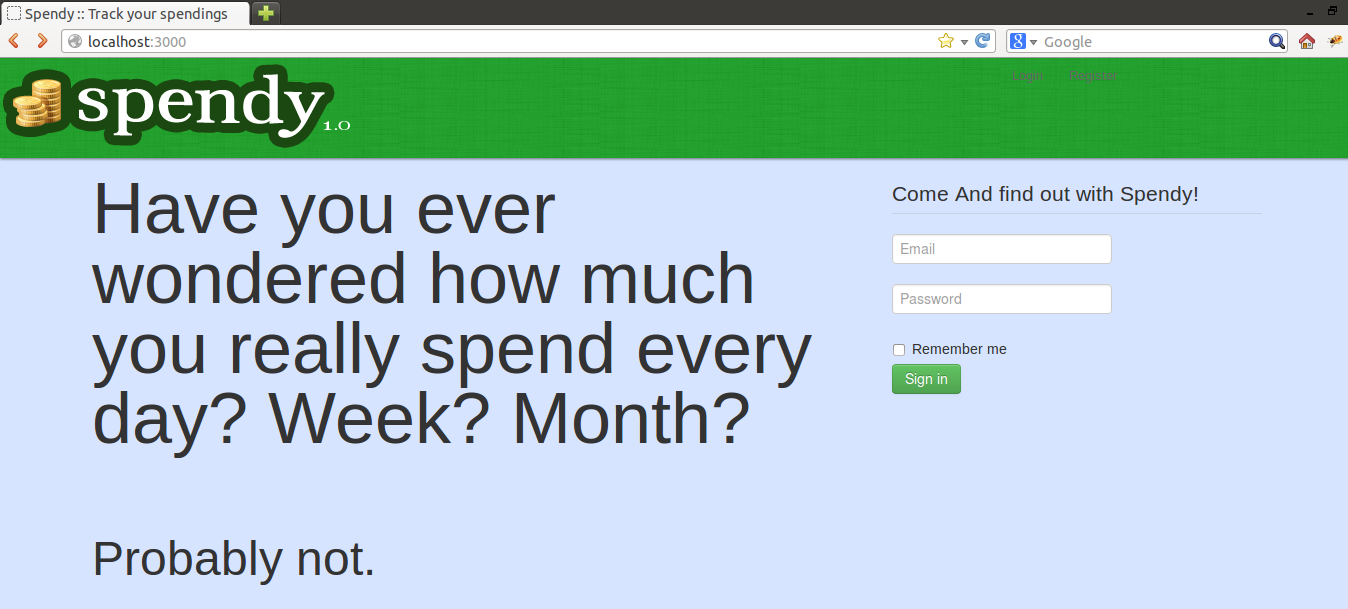
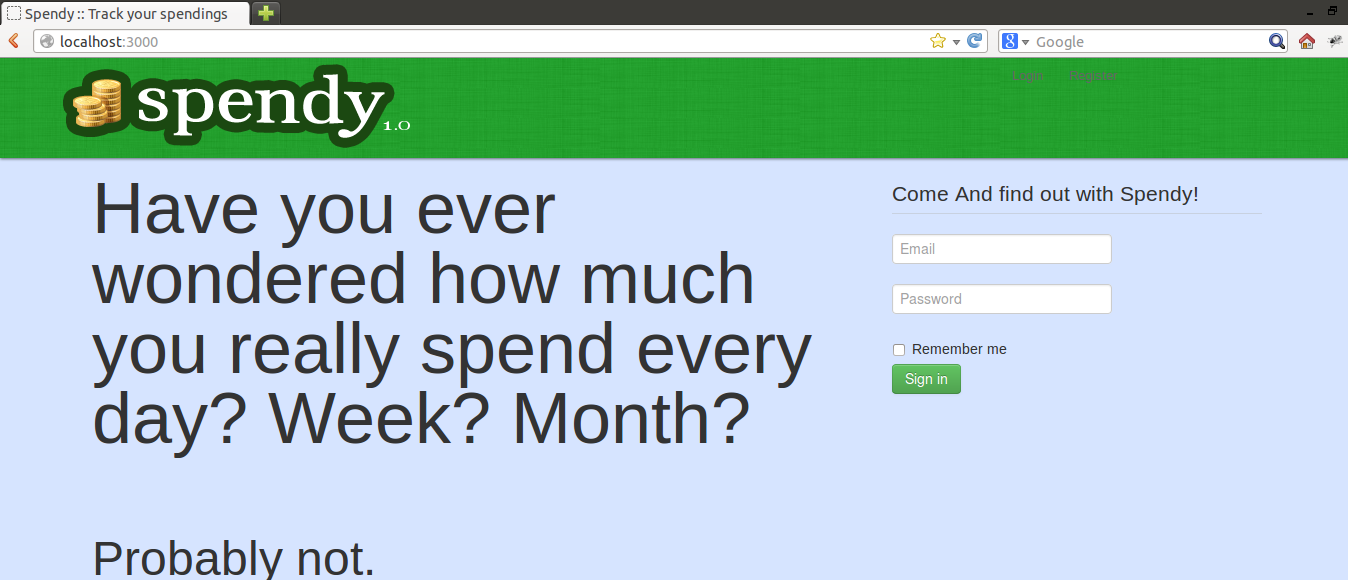
change screenshot

diff --git a/app/assets/stylesheets/home.css.scss b/app/assets/stylesheets/home.css.scss
@@ -16,7 +16,7 @@
 
 
 #logo_link{
-	// margin-left:60px;
+	margin-left:60px;
 }
 $header-footer: #4C9929;
 
